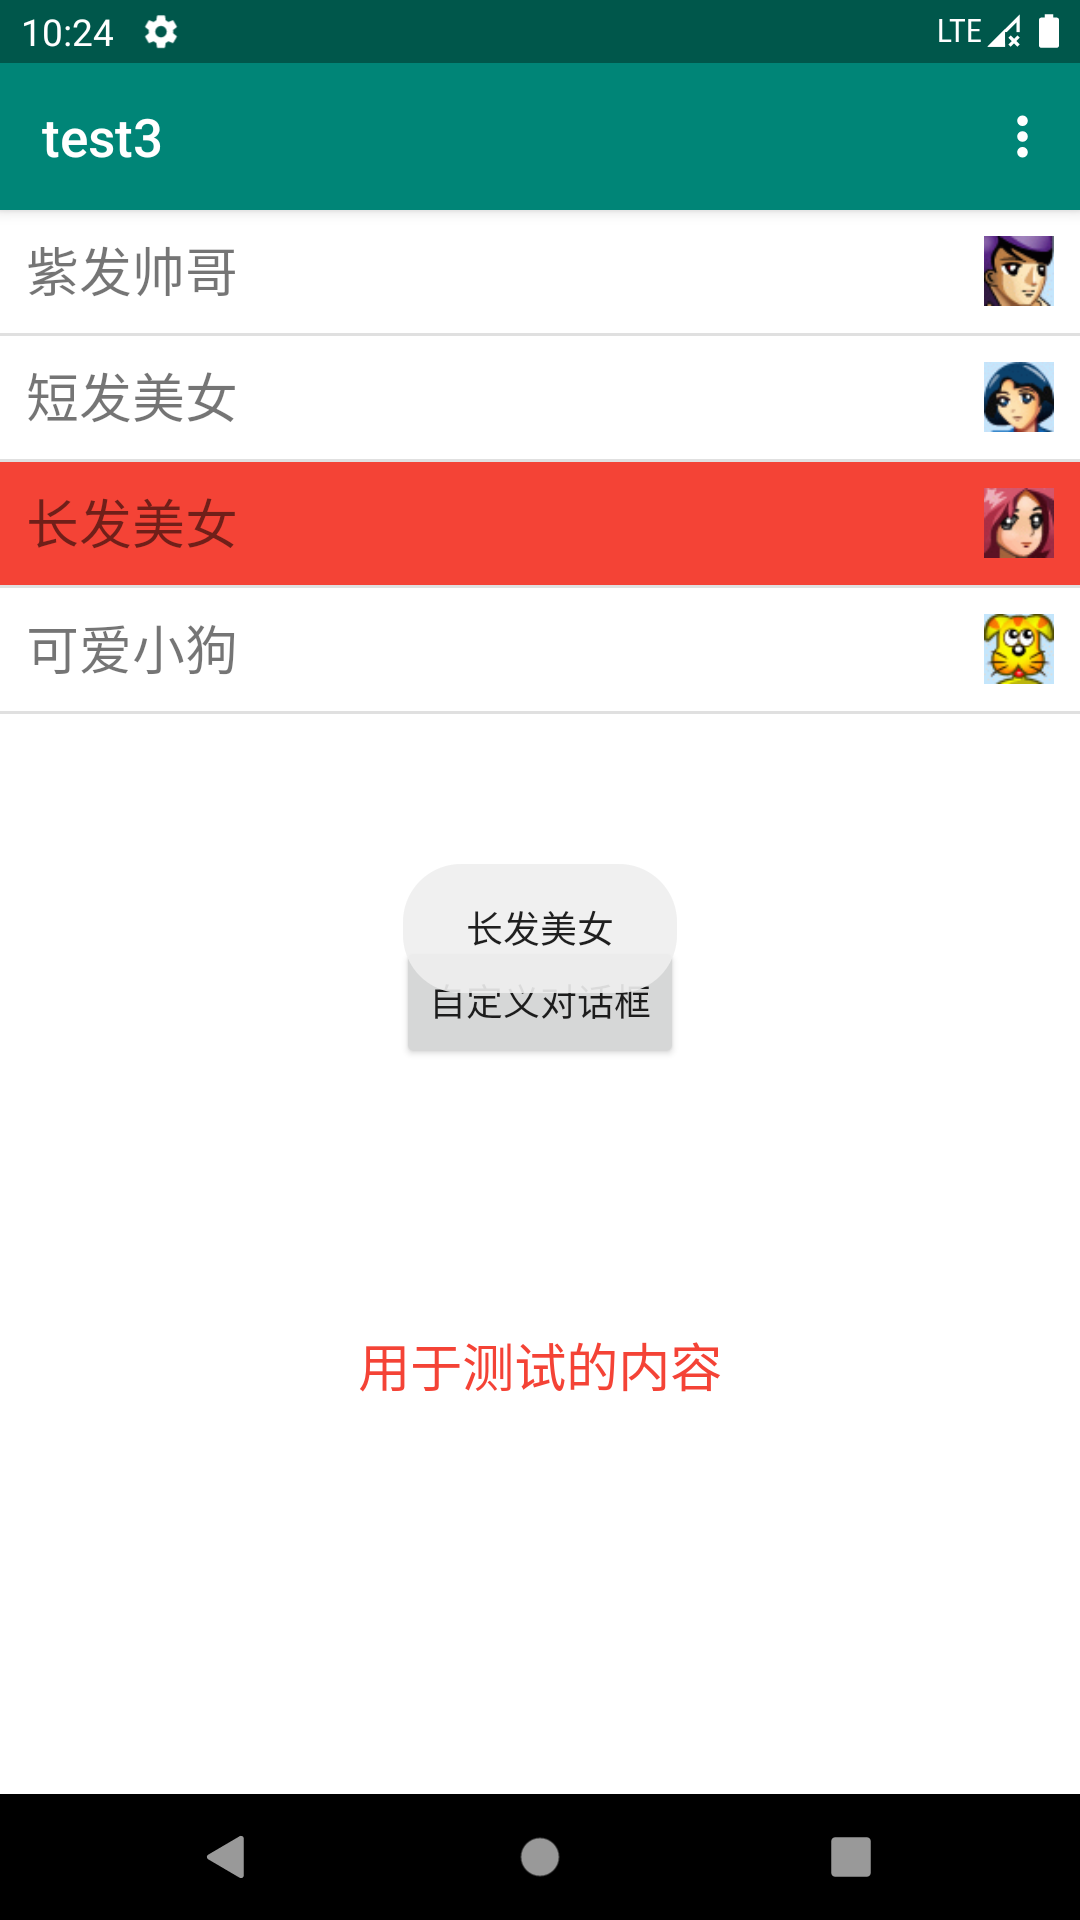
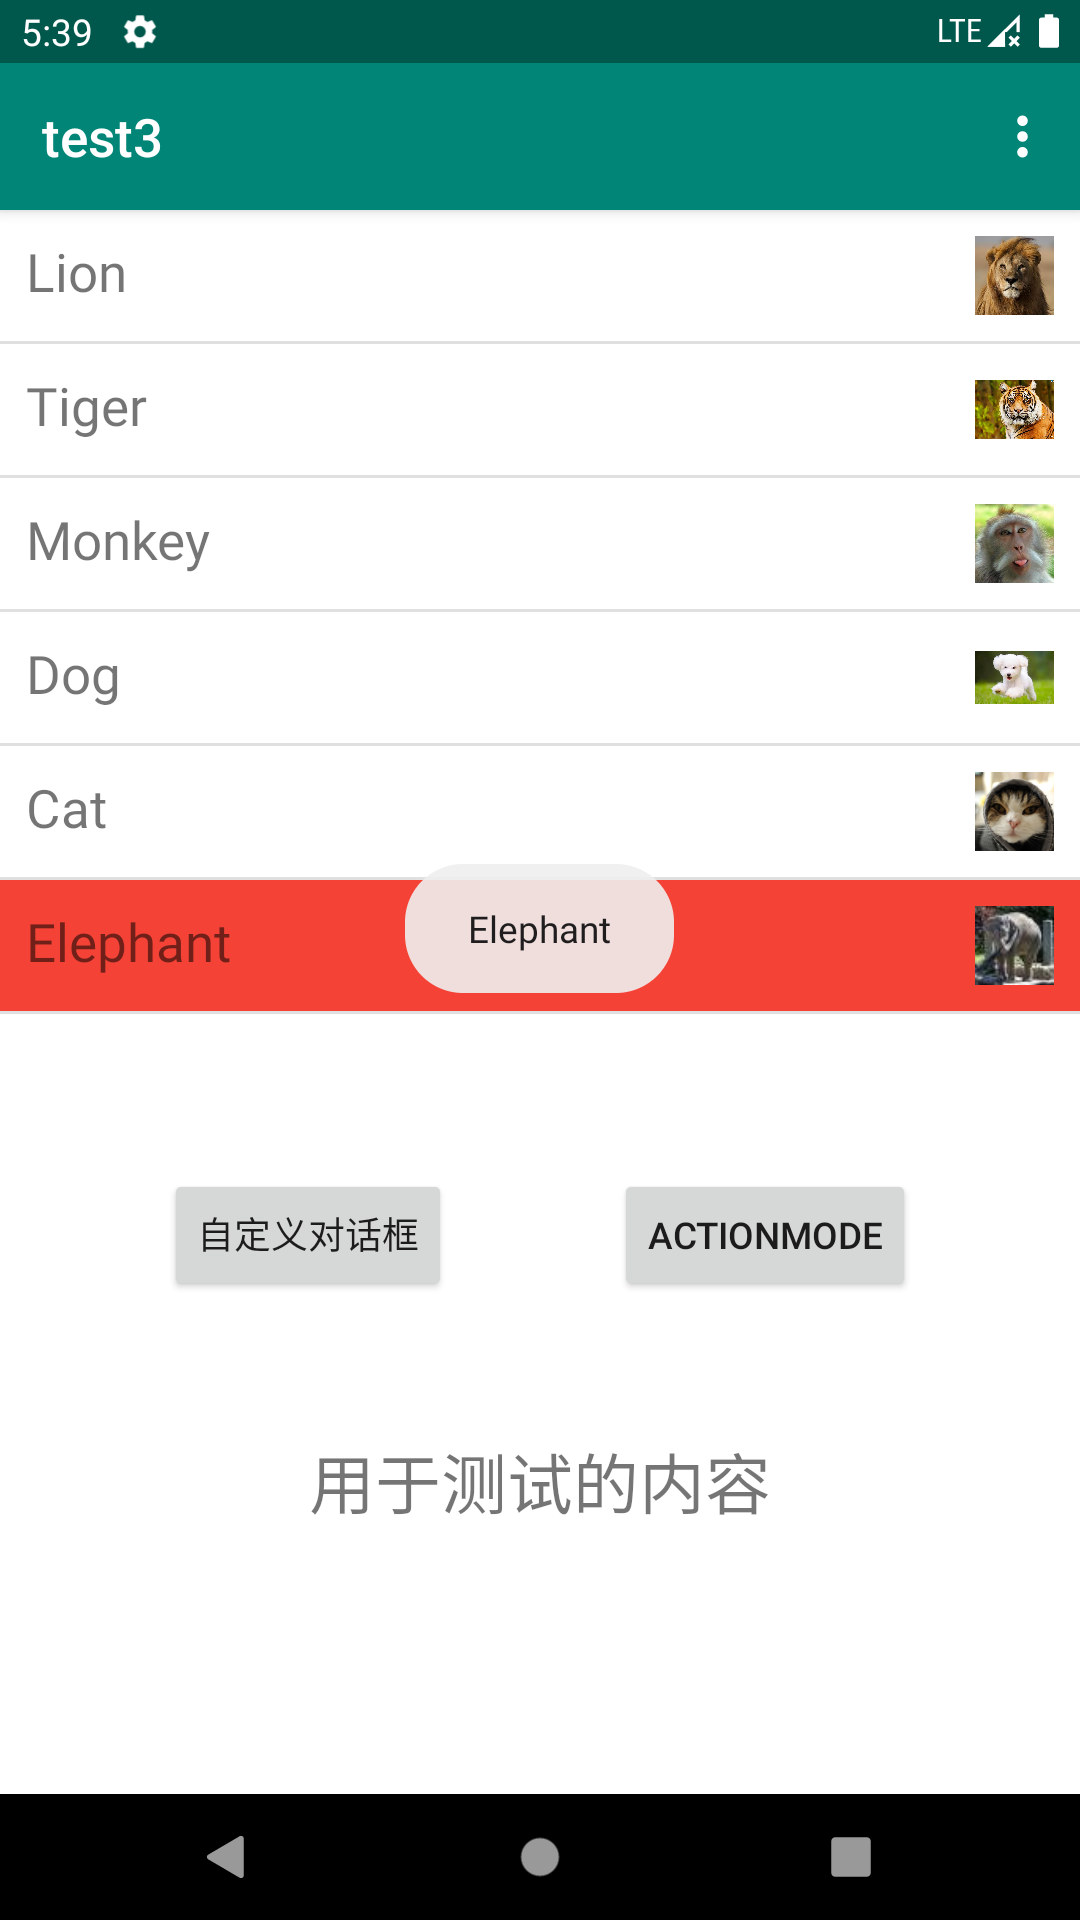
update images

diff --git a/test3_ui/src/main/java/com/example/test3/MainActivity.java b/test3_ui/src/main/java/com/example/test3/MainActivity.java
@@ -26,8 +26,8 @@ import java.util.Map;
 
 public class MainActivity extends AppCompatActivity {
 
-    final String[] name = {"紫发帅哥","短发美女","长发美女","可爱小狗"};
-    final int[] header = {R.drawable.libai,R.drawable.qingzhao,R.drawable.nongyu,R.drawable.tiger};
+    final String[] name = {"Lion","Tiger","Monkey","Dog","Cat","Elephant"};
+    final int[] header = {R.drawable.lion,R.drawable.tiger,R.drawable.monkey,R.drawable.dog,R.drawable.cat,R.drawable.elephant};
     private int[] item = new int[name.length];
     private TextView textView;
     @Override
